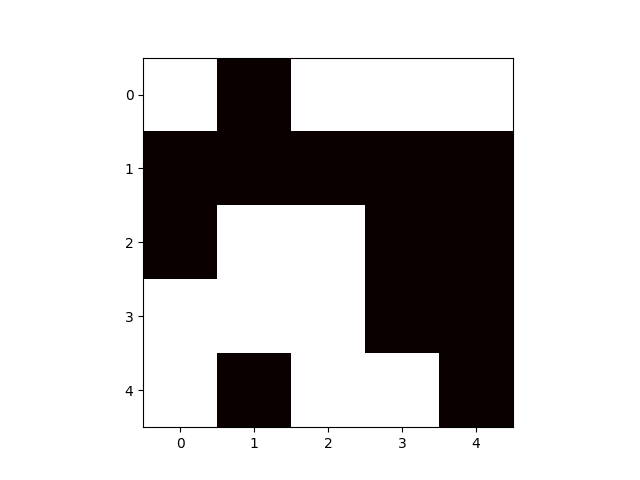
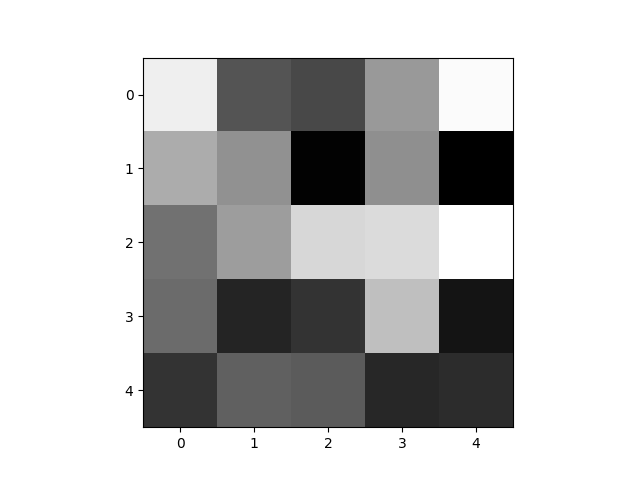
done

diff --git a/analyze.py b/analyze.py
@@ -7,9 +7,9 @@ import torch.nn.functional as F
 def plot_tensor(tensor,folder, filename):
     mean = torch.mean(tensor)
     tensor = tensor.data.clone()
-    tensor[tensor >= mean] = 255
-    tensor[tensor < mean] = 0
-    plt.imshow(tensor.cpu().numpy(), cmap="hot")
+    # tensor[tensor >= mean] = 255
+    # tensor[tensor < mean] = 0
+    plt.imshow(tensor.cpu().numpy(), cmap="gray")
     plt.savefig(f"{folder}/{filename}")
 
 

diff --git a/train.py b/train.py
@@ -27,10 +27,10 @@ def train(mode="normal"):
 
         if mode == "weight_same":
 
-            p = torch.rand((10,49))
+            p = torch.rand((10,36))
 
-            model.fc1.weight.data[:, 0:49] = p
-            model.fc1.weight.data[:, 49:98] = p
+            model.fc1.weight.data[:, 0:36] = p
+            model.fc1.weight.data[:, 36:72] = p
 
 
     analyze.analyze(model, mode, "before")
